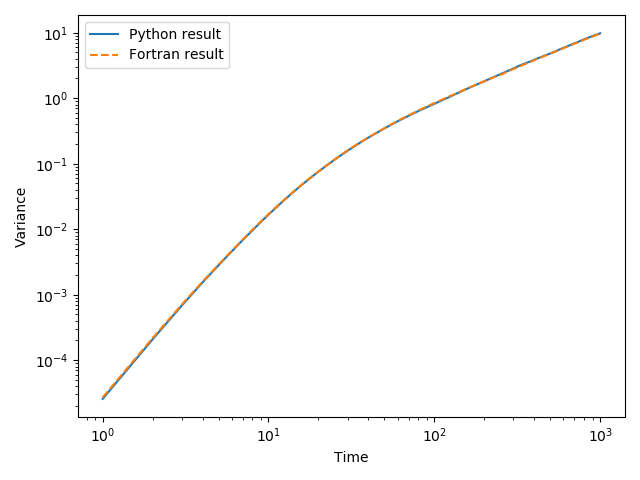
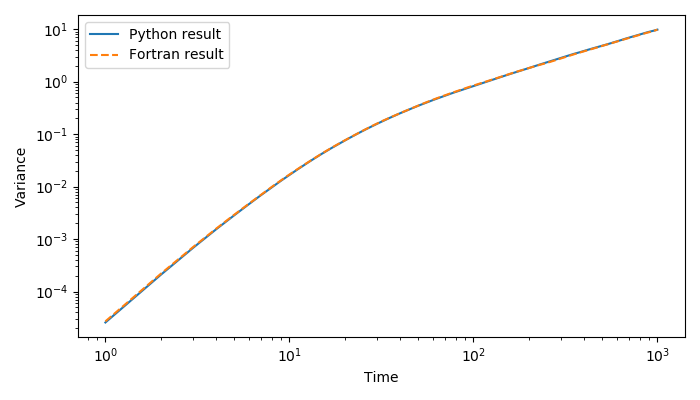
Changed aspect ratio of plot

diff --git a/src/plot_both.py b/src/plot_both.py
@@ -7,6 +7,8 @@ from matplotlib import pyplot as plt
 times_py, variance_py   = np.loadtxt('../output/variance_python.txt').T
 times_f90, variance_f90 = np.loadtxt('../output/variance_fortran.txt').T
 
+fig = plt.figure(figsize = (7,4))
+
 plt.plot(times_py,  variance_py,  label = 'Python result')
 plt.plot(times_f90, variance_f90, '--', label = 'Fortran result')
 
